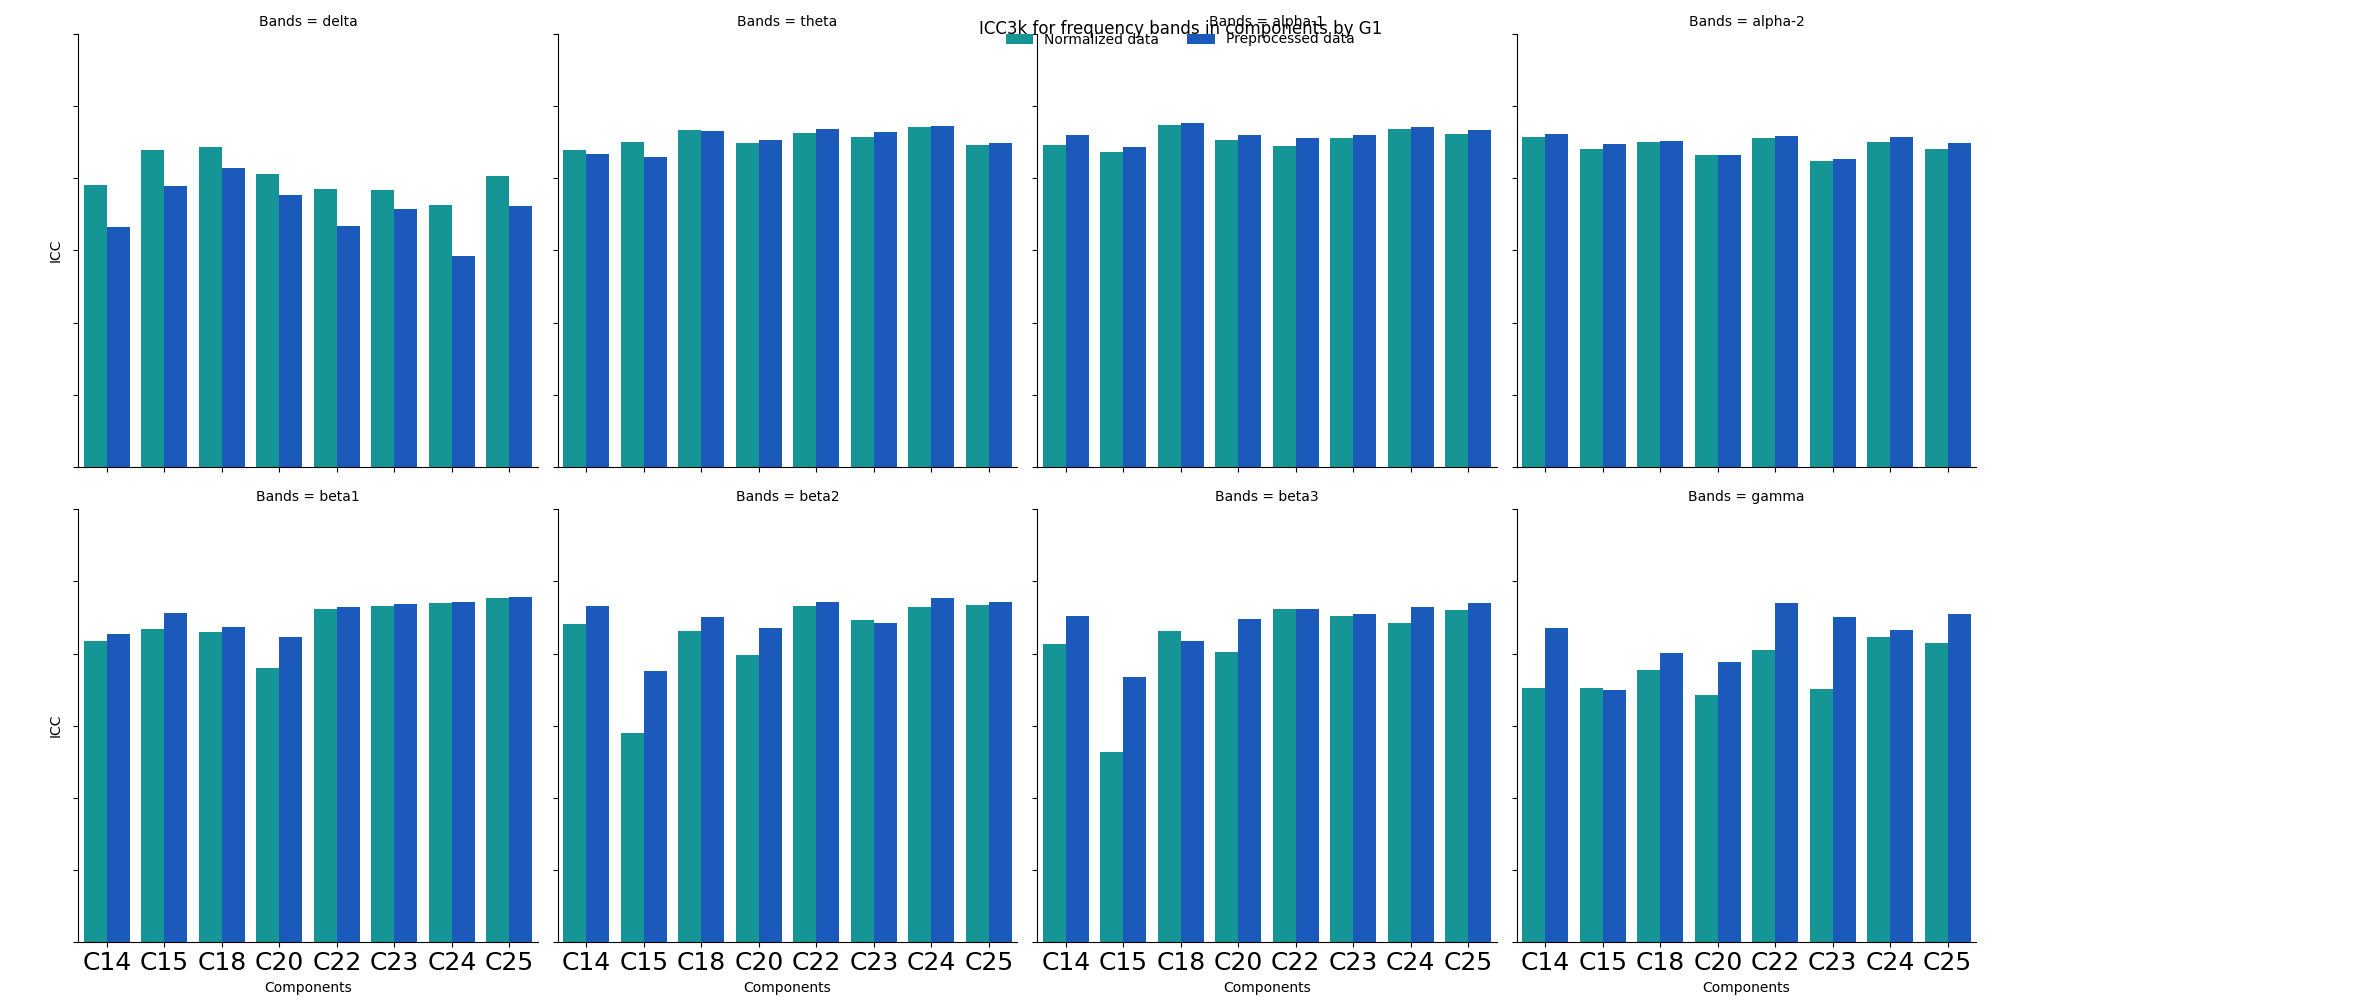
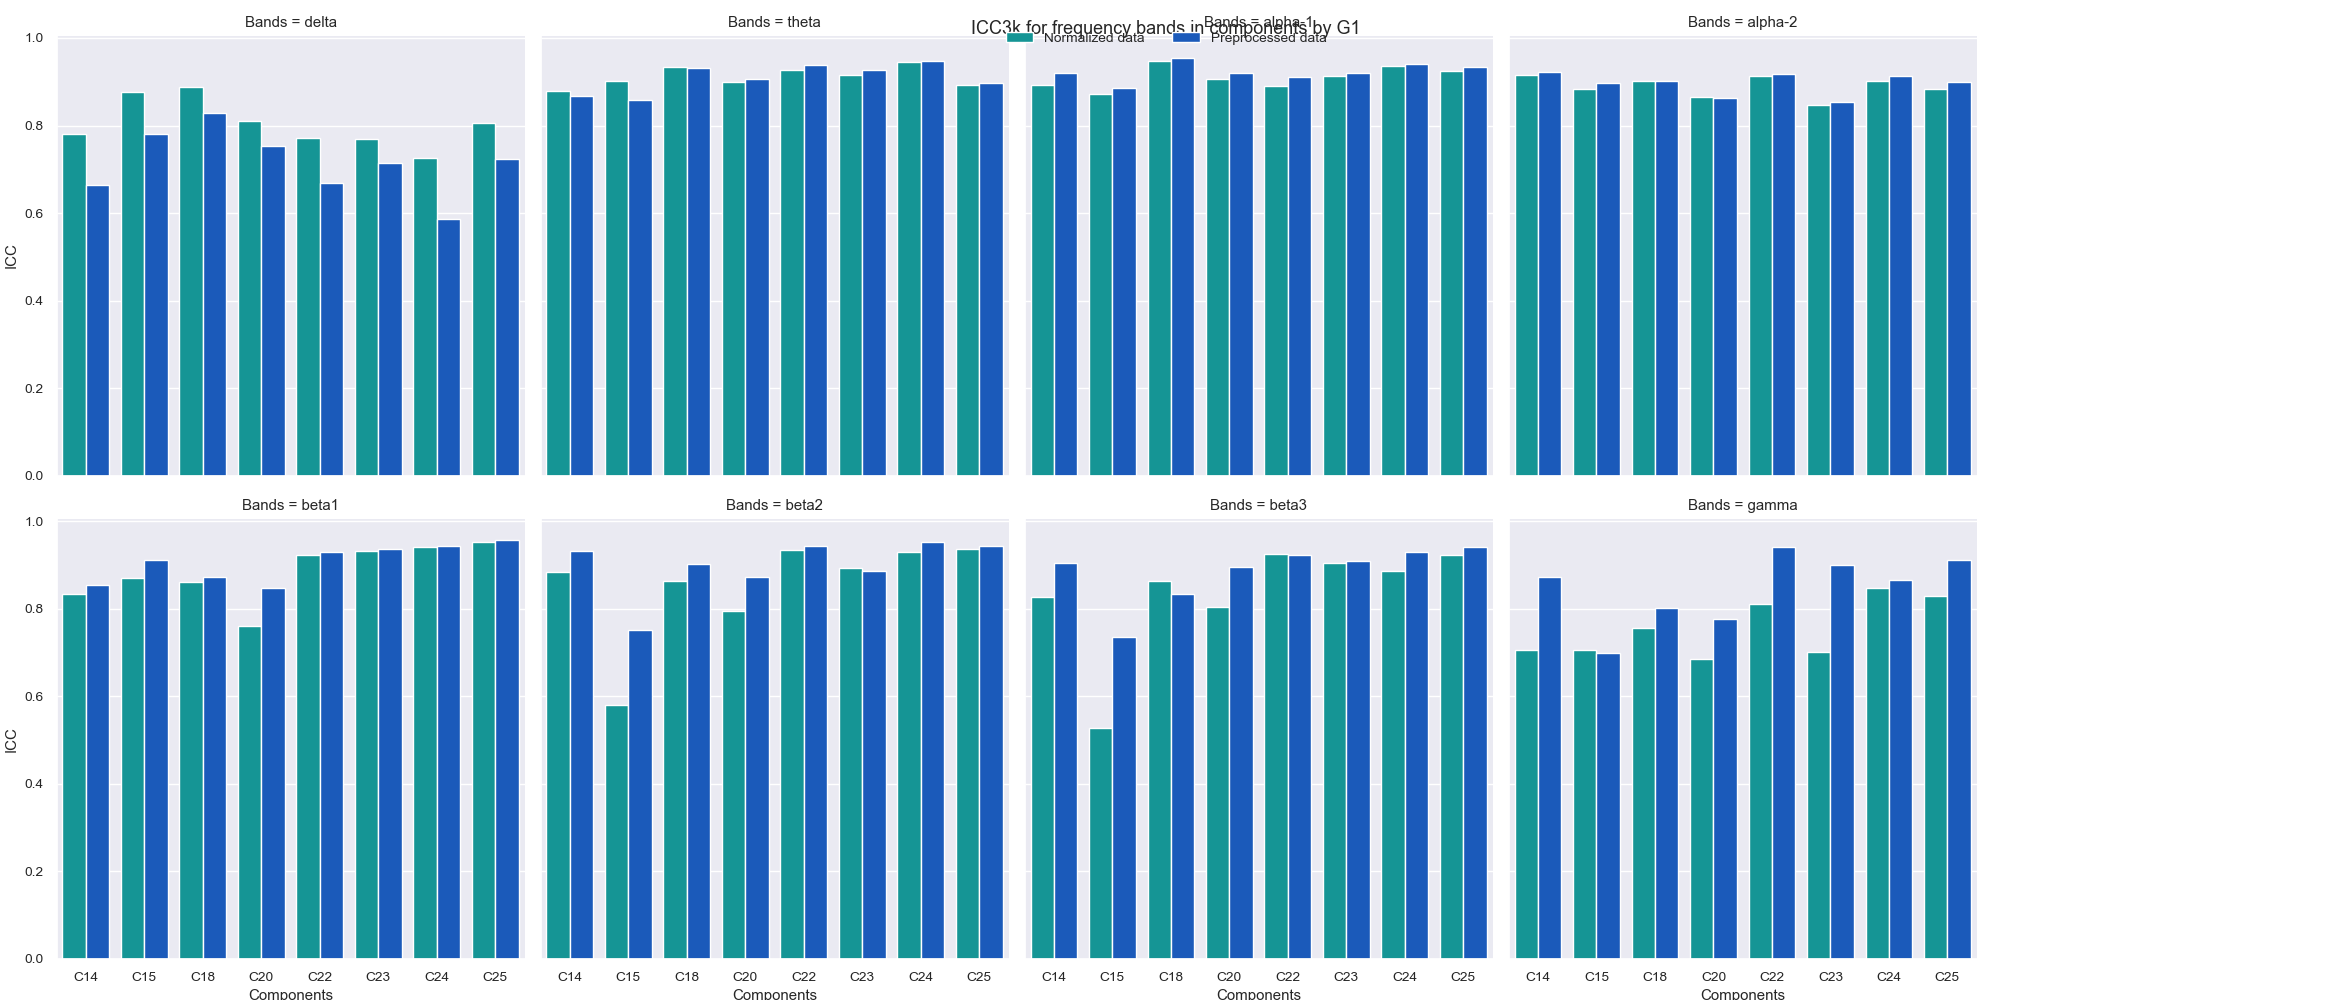
ICC filtrando G2 y CTR

diff --git a/sovaharmony/Reproducibilidad/ICC_CTR-G2.py b/sovaharmony/Reproducibilidad/ICC_CTR-G2.py
@@ -1,59 +1,61 @@
-from tokenize import group
+'''Codigo usado para filtrar los datos de biomarcadores de los grupos G2 y CTR.
+Quedan con la misma cantidad de visitas pero no corresponden a las mismas visitas
+Se calcula el ICC con estos datos  '''
+
 import numpy as np
 import pandas as pd 
 import collections
 import scipy.io
+from tokenize import group
 import pingouin as pg
 
-datos1=pd.read_excel(r"sovaharmony\Reproducibilidad\longitudinal_data_powers_long_components_norm.xlsx") 
-datos2=pd.read_excel(r"sovaharmony\Reproducibilidad\longitudinal_data_powers_long_components.xlsx")
+datos1=pd.read_excel('sovaharmony\Reproducibilidad\longitudinal_data_powers_long_components_norm.xlsx') 
+datos2=pd.read_excel('sovaharmony\Reproducibilidad\longitudinal_data_powers_long_components.xlsx')
 datos=pd.concat((datos1,datos2))
-
-
 datos=datos.drop(datos[datos['Session']=='V4P'].index)#Borrar datos
-components=['C14', 'C15','C18', 'C20', 'C22','C23', 'C24', 'C25']
+datos['Session']=datos['Session'].replace({'VO':'V0','V4P':'V4'})
+components=['C14', 'C15','C18', 'C20', 'C22','C23', 'C24', 'C25' ]
+groups=['CTR','G2']
 datos=datos[datos.Components.isin(components) ] #Solo los datos de las componentes seleccionadas
-
-sessions=datos['Session'].unique() #sesiones 
-print(sessions)
-Grupos=['G1','G2','CTR','DCL','DTA']
-G=['G1','G2']
-
-for i in G:
+datos=datos[datos.Group.isin(groups) ] #Solo los datos de CTR y G2
+visitas=['V0','V1','V2','V3']
+#Codigo para eliminar los sujetos sin 4 visitas
+for i in groups:
     g=datos[datos['Group']==i]
-    visitas=g['Session'].unique()
+    #visitas=g['Session'].unique()
     sujetos=g['Subject'].unique()
     print('Cantidad de sujetos de '+i+': ', len(sujetos))
     k=0
     for j in sujetos:
         s=g[g['Subject']==j]
-        if (collections.Counter(s['Session'].unique()) == collections.Counter(visitas)):
-            None
-        else:
+        if len(s['Session'].unique()) !=4:
             k=k+1
             datos=datos.drop(datos[datos['Subject']==j].index)
-            #print(j) #Sujeto sin todas 
-            #print(s['Session'].unique())
-    print('Sujetos a borrar:', k)
-    print('Sujetos a analizar con todas las visitas: ',len(sujetos)-k)
+        if len(s['Session'].unique()) ==4:
+            v=s['Session'].unique()
+            for vis in range(len(visitas)):
 
-#Verificación
-G=['G1','G2']
-for i in G:
+                datos.loc[(datos.Subject==j)&(datos.Session==v[vis]),'Session']=visitas[vis]
+
+                #datos[datos['Subject']==j]['Session'].replace({v[vis]:visitas[vis]})        
+    print('Sujetos a borrar:', k)
+    print('Sujetos a analizar con 4 visitas: ',len(sujetos)-k)
+
+for i in groups:
     g=datos[datos['Group']==i]
     print('Cantidad de sujetos al filtrar '+ i+': ',len(g['Subject'].unique()))
 
 
-#datos es el archivo filtrado de sujetos para g1 y g2
-#son 8 componentes
-#G1 #FILAS:152, #COLUMNAS: 4 
-#G2 #FILAS:200, #COLUMNAS: 4 
+print(datos['Session'].unique())
 
-visitas=['V0','V1','V2','V3','V4']
+
+
+visitas=['V0','V1','V2','V3']
 bandas=datos['Bands'].unique()
 Stage=datos['Stage'].unique()
-
+datos['Group']=datos['Group'].replace({'CTR':'Control','G2':'Control'})
 icc_value = pd.DataFrame(columns=['Description','ICC','F','df1','df2','pval','CI95%'])
+G=['Control']
 for st in Stage:
     d_stage=datos[datos['Stage']==st] 
     for g in G:
@@ -97,4 +99,5 @@ for st in Stage:
 
         icc_value.append(icc_value)
     icc_value.append(icc_value)
-icc_value.to_csv(r'paquetes\eeg_harmonization\sovaharmony\Reproducibilidad\icc_values.csv',sep=';')
+icc_value.to_csv(r'sovaharmony\Reproducibilidad\icc_values_G2-CTR.csv',sep=';')
+

diff --git a/sovaharmony/Reproducibilidad/ICC_graphic.py b/sovaharmony/Reproducibilidad/ICC_graphic.py
@@ -3,7 +3,7 @@ import numpy as np
 import matplotlib.pyplot as plt 
 import seaborn as sns 
 
-icc_data=pd.read_csv(r'paquetes\eeg_harmonization\sovaharmony\Reproducibilidad\icc_values.csv',sep=';')
+icc_data=pd.read_csv(r'sovaharmony\Reproducibilidad\icc_values.csv',sep=';')
 bands=icc_data['Bands'].unique()
 def barplot_icc(icc_data,group,plot=False,save=False):
     for band in bands:
@@ -13,7 +13,7 @@ def barplot_icc(icc_data,group,plot=False,save=False):
         sns.move_legend(ax, "lower center", bbox_to_anchor=(.5, 1), ncol=2, title=None, frameon=False)
         plt.title('ICC3 for '+ band +' in components by '+group,y=1.08)
         if save==True:
-            plt.savefig('paquetes\eeg_harmonization\sovaharmony\Reproducibilidad\ICC\ICC_{name_group}_{name_band}_components.png'.format(name_group=group,name_band=band))
+            plt.savefig('sovaharmony\Reproducibilidad\ICC\ICC_{name_group}_{name_band}_components.png'.format(name_group=group,name_band=band))
             plt.close()
         if plot:
             plt.show()
@@ -23,17 +23,20 @@ def barplot_icc_nB_1G(icc_data,group,plot=False,save=False):
     fil=icc_data['Group']==group
     filter_band=icc_data[fil]
     plt.figure(figsize=(8, 6))
+    sns.set(font_scale = 0.9)
     ax=sns.catplot(x='Components',y='ICC',data=filter_band,hue='Stage',palette='winter_r',kind='bar',col='Bands',col_wrap=4,legend=False)
     ax.fig.suptitle('ICC3k for frequency bands' +' in components by '+group)
     ax.add_legend(loc='upper center',bbox_to_anchor=(.5,0.98),ncol=2)
-    _, ylabels = plt.yticks()
-    _, xlabels = plt.xticks()
-    ax.set_yticklabels(ylabels, size=18)
-    ax.set_xticklabels(xlabels, size=18)
+
+    # _, ylabels = plt.yticks()
+    # _, xlabels = plt.xticks()
+    # ax.set_yticklabels(ylabels, fontsize=18)
+    # ax.set_xticklabels(xlabels, fontsize=18)
+    #ax.fig.subplots_adjust(top=0.857,bottom=0.121, right=0.986,left=0.2, hspace=0.138, wspace=0.062)
     # sns.move_legend(ax, "lower center", bbox_to_anchor=(.5, 1), ncol=2, title=None, frameon=False)
     # plt.title('ICC3 for ' +' in components by '+group,y=1.08)
     if save==True:
-        plt.savefig('paquetes\eeg_harmonization\sovaharmony\Reproducibilidad\ICC\ICC_{name_group}_components.png'.format(name_group=group))
+        plt.savefig('sovaharmony\Reproducibilidad\ICC\ICC_{name_group}_components.png'.format(name_group=group))
         plt.close()
     if plot:
         plt.show()
